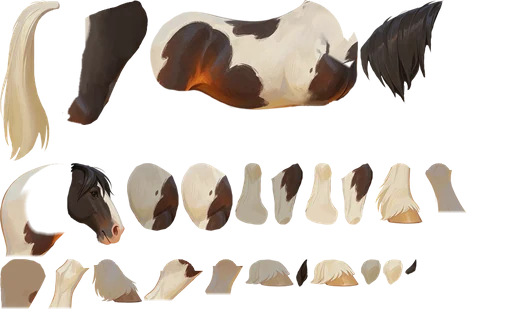
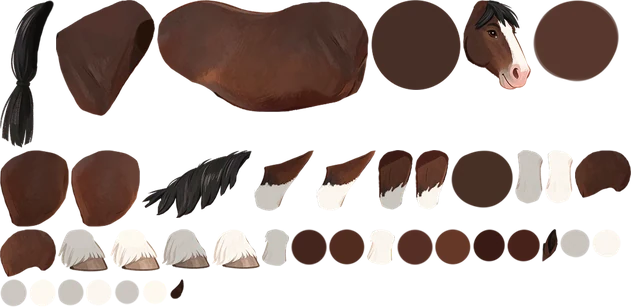
v257: шайр из PSD-нарезки вместо старой лошади + лёгкий галоп в повозке с седоками
- новый атлас horse.webp: 40 частей с шарнирами, кость у каждой части в HF
- лёгкий галоп (3 такта, корпус-качалка), когда в телеге Змей с героиней или все трое
- хвост при рыси отлетает назад (под новый риг)

diff --git a/index.html b/index.html
@@ -319,7 +319,7 @@ body.overview .hud, body.overview .stick-zone, body.overview .guide, body.overvi
 <script>
 // ===================== Общие настройки =====================
 const DPR = Math.min(window.devicePixelRatio || 1, 3);
-const GAME_VERSION = 256;   // совпадает с номером в sw.js (farm-vN); видно в окне «Заново»
+const GAME_VERSION = 257;   // совпадает с номером в sw.js (farm-vN); видно в окне «Заново»
 // Слои земли (трава, дорожки, поля, тени) — глубже любых персонажей и деревьев, даже с отрицательной y
 const GROUND = -5000;
 // Карта: y от −1000 до 2000. Верх (y < 0) — поле с пшеницей, низ (y > 1000) — пастбище Эйнара
@@ -5340,23 +5340,16 @@ function updateReap(dt) {
     g.lineStyle(2 + 6 * f, 0xFFF6D8, 0.7 * f).lineBetween(a.x, a.y, b.x, b.y);
   }
 }
-// ===================== Лошадь — рисованная (v245): части из PSD, риг костей, рысь / стоит / бьёт копытом =====================
-// Атлас assets/chars/horse.webp: части в 0.5. HF: [x, y, w, h в атласе, место на холсте 800×604 x, y]. Лошадь смотрит вправо.
-const HF = {"hindFar-hoof":[92,259,50,44,214,464],"hindFar-cannon":[425,163,42,50,192,390],"hindFar-gaskin":[205,259,38,36,192,346],"hindFar-thigh":[0,259,46,50,205,274],"tail":[0,0,60,161,62,191],"foreFar-shin":[235,163,34,62,471,410],"foreFar-knee":[361,259,20,26,490,398],"foreFar-hoof":[245,259,49,28,462,496],"foreFar-top1":[127,163,52,68,458,210],"foreFar-top2":[271,163,32,62,487,304],"body":[150,0,208,110,163,146],"neck":[62,0,86,125,485,60],"mane":[360,0,84,104,463,62],"earFar":[405,259,12,16,652,47],"head":[67,163,58,82,620,64],"earNear":[296,259,12,28,631,41],"hindNear-hoof":[375,163,48,61,71,445],"hindNear-cannon":[48,259,42,50,94,373],"hindNear-gaskin":[144,259,59,42,109,320],"hindNear-thigh":[0,163,65,94,129,169],"foreNear-shin":[305,163,34,62,439,427],"foreNear-knee":[383,259,20,26,458,415],"foreNear-hoof":[310,259,49,28,430,513],"foreNear-top1":[181,163,52,68,426,227],"foreNear-top2":[341,163,32,62,455,321]};
+// ===================== Лошадь — шайр (v257): нарезка пользователя из PSD «Новая_лошадка» + шарниры; рысь / лёгкий галоп / стоит / бьёт копытом =====================
+// Атлас assets/chars/horse.webp: части в 0.5. HF: [x, y, w, h в атласе, место на холсте 800×605 x, y, кость]. Лошадь смотрит вправо. Порядок ключей — снизу вверх.
+const HF = {"hindFar-jFetlock":[560,229,30,29,207,452,"hF3"],"hindFar-hoof":[58,229,50,43,193,466,"hF4"],"hindFar-jHock":[58,279,26,27,215,380,"hF2"],"hindFar-jThigh":[291,229,36,36,232,297,"hF1"],"hindFar-cannon":[515,150,28,54,209,390,"hF3"],"hindFar-jStifle":[329,229,36,36,269,252,"hF1"],"hindFar-gaskin":[254,150,60,61,212,304,"hF2"],"hindFar-thigh":[0,150,69,77,209,195,"hF1"],"tail":[0,0,54,148,69,186,"tail"],"jHip":[533,0,86,82,136,166,"root"],"jWithers":[371,0,90,90,391,148,"root"],"foreFar-jFetlock":[0,279,27,28,473,448,"fF3"],"foreFar-hoof":[162,229,48,40,459,472,"fF4"],"foreFar-jKnee":[114,279,26,26,483,395,"fF2"],"foreFar-shin":[262,229,27,37,477,409,"fF3"],"foreFar-jElbow":[473,229,32,33,486,301,"fF1"],"foreFar-top2":[378,150,35,60,486,311,"fF2"],"foreFar-top1":[575,150,56,48,472,248,"fF1"],"body":[157,0,212,112,155,152,"root"],"jPoll":[451,150,62,58,559,66,"neck"],"neck":[56,0,99,116,442,87,"neck"],"foreNear-jFetlock":[29,279,27,28,418,465,"fN3"],"foreNear-hoof":[212,229,48,40,403,488,"fN4"],"foreNear-jKnee":[142,279,26,26,427,412,"fN2"],"foreNear-shin":[367,229,28,36,421,426,"fN3"],"foreNear-jElbow":[507,229,33,33,430,317,"fN1"],"foreNear-top2":[415,150,34,60,431,328,"fN2"],"foreNear-top1":[0,229,56,48,416,264,"fN1"],"earFar":[170,279,14,20,653,47,"earF"],"head":[463,0,68,90,598,68,"head"],"earNear":[542,229,16,33,618,41,"earN"],"mane":[142,150,110,68,407,67,"mane"],"hindNear-jFetlock":[592,229,29,29,132,465,"hN3"],"hindNear-hoof":[110,229,50,42,118,479,"hN4"],"hindNear-jHock":[86,279,26,27,139,393,"hN2"],"hindNear-jThigh":[397,229,36,36,157,310,"hN1"],"hindNear-cannon":[545,150,28,54,133,403,"hN3"],"hindNear-jStifle":[435,229,36,36,193,265,"hN1"],"hindNear-gaskin":[316,150,60,61,137,317,"hN2"],"hindNear-thigh":[71,150,69,77,133,208,"hN1"]};
 // кости: [родитель, ось x, y на холсте]; углы поз — в градусах, по часовой
-const HB = { root: [null, 370, 300], neck: ['root', 505, 275], mane: ['neck', 540, 95], head: ['neck', 648, 125], earN: ['head', 646, 92], earF: ['head', 662, 77], tail: ['root', 168, 200],
-  fN1: ['root', 478, 250], fN2: ['fN1', 486, 335], fN3: ['fN2', 478, 440], fN4: ['fN3', 472, 520],
-  fF1: ['root', 510, 233], fF2: ['fF1', 518, 318], fF3: ['fF2', 510, 423], fF4: ['fF3', 504, 503],
-  hN1: ['root', 183, 209], hN2: ['hN1', 178, 354], hN3: ['hN2', 138, 401], hN4: ['hN3', 121, 469],
-  hF1: ['root', 232, 304], hF2: ['hF1', 234, 370], hF3: ['hF2', 219, 414], hF4: ['hF3', 244, 486] };
+const HB = {root: [null, 375.2, 257.2], neck: ["root", 480.2, 238.3], mane: ["neck", 519.2, 141.6], head: ["neck", 620.6, 123.9], earN: ["head", 634.8, 101.5], earF: ["head", 667.8, 82.6], tail: ["root", 162.8, 202.9], hN1: ["root", 202.9, 236.0], hN2: ["hN1", 228.9, 300.9], hN3: ["hN2", 164.0, 418.9], hN4: ["hN3", 160.5, 493.2], hF1: ["root", 278.5, 223.0], hF2: ["hF1", 304.4, 287.9], hF3: ["hF2", 239.5, 405.9], hF4: ["hF3", 236.0, 480.2], fN1: ["root", 474.3, 280.8], fN2: ["fN1", 462.5, 349.3], fN3: ["fN2", 453.1, 437.8], fN4: ["fN3", 444.8, 492.0], fF1: ["root", 529.8, 264.3], fF2: ["fF1", 518.0, 332.7], fF3: ["fF2", 508.6, 421.2], fF4: ["fF3", 500.3, 475.5] };
 const HK = 0.18, HS = 0.5;   // мир на пиксель холста (v247: поменьше — холка ниже Змея); масштаб атласа
-const H_ONE = { body: 'root', neck: 'neck', mane: 'mane', head: 'head', earNear: 'earN', earFar: 'earF', tail: 'tail' };
-const H_SEG = { top1: 1, top2: 2, knee: 3, shin: 3, hoof: 4, thigh: 1, gaskin: 2, cannon: 3 };
-const H_LEG = { foreNear: 'fN', foreFar: 'fF', hindNear: 'hN', hindFar: 'hF' };
-const hBone = n => H_ONE[n] || H_LEG[n.split('-')[0]] + H_SEG[n.split('-')[1]];
+const hBone = n => HF[n][6];
 const hEase = t => 0.5 - 0.5 * Math.cos(Math.PI * Math.max(0, Math.min(1, t)));
 const hPulse = (t, t0, d) => t < t0 || t > t0 + d ? 0 : Math.sin(Math.PI * (t - t0) / d);
-function makeHorse() {
+function makeHorse(gallop) {   // gallop — в повозке с седоками лёгкий галоп вместо рыси
   const tex = scene.textures.get('horseAtlas'), c = scene.add.container(0, 0);
   c.ims = [];
   for (const n of Object.keys(HF)) {   // порядок ключей — снизу вверх
@@ -5365,6 +5358,7 @@ function makeHorse() {
     im.bone = hBone(n); im.rx = f[4]; im.ry = f[5]; c.add(im); c.ims.push(im);
   }
   c.hs = { t: Math.random() * 10, ph: 0, mv: 0, ev: {}, nx: { ear: 2 + Math.random() * 3, earF: 4 + Math.random() * 4, tail: 3 + Math.random() * 4, paw: 3 + Math.random() * 4 } };   // состояние (у контейнера свои поля — next и т.п.)
+  c.hs.gallop = !!gallop;
   c.tick = (dt, speed) => horseTick(c, dt, speed);
   horsePose(c, {});
   return c;
@@ -5389,13 +5383,22 @@ function hLegH(ph, s, p) {   // задняя: перенос — сгиб ска
   let hp, f; if (ph < 0.5) { hp = -12 + 26 * (ph / 0.5); f = 0; } else { const q = (ph - 0.5) / 0.5; hp = 14 - 26 * hEase(q); f = Math.sin(Math.PI * q); }
   p[s + '1'] = hp - 6 * f; p[s + '2'] = 14 * f; p[s + '3'] = -42 * f; p[s + '4'] = 34 * f;
 }
+function hLegFC(ph, s, p) {   // лёгкий галоп: опора 0.42 цикла, перенос со сгибом
+  const st = 0.42, A = 18; let sh, f; if (ph < st) { sh = -A + 2 * A * ph / st; f = 0; } else { const q = (ph - st) / (1 - st); sh = A - 2 * A * hEase(q); f = Math.sin(Math.PI * q); }
+  p[s + '1'] = sh - 4 * f; p[s + '2'] = -10 * f; p[s + '3'] = 88 * f; p[s + '4'] = 32 * f;
+}
+function hLegHC(ph, s, p) {
+  const st = 0.42, A = 16; let hp, f; if (ph < st) { hp = -A + 2 * A * ph / st; f = 0; } else { const q = (ph - st) / (1 - st); hp = A - 2 * A * hEase(q); f = Math.sin(Math.PI * q); }
+  p[s + '1'] = hp - 8 * f; p[s + '2'] = 18 * f; p[s + '3'] = -50 * f; p[s + '4'] = 38 * f;
+}
+const H_CANTER = [['hF', 0, hLegHC], ['hN', 0.16, hLegHC], ['fF', 0.24, hLegFC], ['fN', 0.40, hLegFC]];   // 3 такта: дальняя задняя, диагональ, ведущая передняя; потом «полёт»
 const H_PAW_UP = { fN1: -20, fN2: -6, fN3: 84, fN4: 36 }, H_PAW_SCR = { fN1: 2, fN3: 26, fN4: -16 };
 const H_PAW = [[0, {}], [0.35, H_PAW_UP], [0.7, H_PAW_SCR], [0.95, H_PAW_UP], [1.3, H_PAW_SCR], [1.55, H_PAW_UP], [1.9, H_PAW_SCR], [2.3, {}]];
 function horseTick(h, dt, speed) {   // speed — скорость телеги (мир/с): от неё темп рыси; стоит — дышит, уши, хвост, иногда бьёт копытом
   if (REDUCED) return;
   const H = h.hs, sec = Math.min(dt, 120) / 1000, moving = speed > 4; H.t += sec;
   H.mv += ((moving ? 1 : 0) - H.mv) * Math.min(1, sec * 6);
-  if (moving) H.ph = (H.ph + sec * Math.min(2.6, speed / 95)) % 1;
+  if (moving) H.ph = (H.ph + sec * (H.gallop ? Math.min(2.2, speed / 200) : Math.min(2.6, speed / 95))) % 1;
   const t = H.t, ev = H.ev, nx = H.nx;
   const p = { dy: 0.8 * Math.sin(2 * Math.PI * t / 2), head: 1.5 * Math.sin(2 * Math.PI * t / 4), tail: 2.5 * Math.sin(Math.PI * t) };
   for (const k in nx) nx[k] -= sec;
@@ -5417,11 +5420,17 @@ function horseTick(h, dt, speed) {   // speed — скорость телеги 
       p.neck = 10 * kk; p.head += 8 * kk; p.earN = (p.earN || 0) - 14 * kk; p.earF = (p.earF || 0) - 14 * kk;
     }
   }
-  if (H.mv > 0.01) {   // рысь: диагональные пары; корпус подпрыгивает, грива чуть запаздывает
-    const q = {}, ph = H.ph, w = H.mv;
-    hLegF(ph, 'fN', q); hLegH(ph, 'hF', q); hLegF((ph + 0.5) % 1, 'fF', q); hLegH((ph + 0.5) % 1, 'hN', q);
-    Object.assign(q, { dy: -5 * Math.abs(Math.sin(2 * Math.PI * ph)), root: 0.8 * Math.sin(4 * Math.PI * ph), neck: -4 + 2.5 * Math.sin(4 * Math.PI * ph + 1),
-      head: -2 * Math.sin(4 * Math.PI * ph + 1.4), tail: -14 + 4 * Math.sin(4 * Math.PI * ph), mane: 2.5 * Math.sin(4 * Math.PI * ph - 0.9), earN: -6, earF: -6 });
+  if (H.mv > 0.01) {
+    const q = {}, ph = H.ph, w = H.mv, P2 = 2 * Math.PI;
+    if (H.gallop) {   // лёгкий галоп: корпус качается «лошадкой-качалкой», шея кивает, хвост отлетает назад
+      for (const [s, o, fn] of H_CANTER) fn((ph - o + 1) % 1, s, q);
+      Object.assign(q, { root: -2.2 * Math.cos(P2 * (ph - 0.05)), dy: -3 - 3.5 * Math.cos(P2 * (ph - 0.85)), neck: 3 + 5 * Math.cos(P2 * (ph - 0.5)),
+        head: -3 * Math.cos(P2 * (ph - 0.6)), mane: 4 * Math.sin(P2 * ph - 2.2), tail: 16 + 6 * Math.sin(P2 * ph - 1), earN: -8, earF: -8 });
+    } else {   // рысь: диагональные пары; корпус подпрыгивает, грива чуть запаздывает
+      hLegF(ph, 'fN', q); hLegH(ph, 'hF', q); hLegF((ph + 0.5) % 1, 'fF', q); hLegH((ph + 0.5) % 1, 'hN', q);
+      Object.assign(q, { dy: -5 * Math.abs(Math.sin(P2 * ph)), root: 0.8 * Math.sin(2 * P2 * ph), neck: -4 + 2.5 * Math.sin(2 * P2 * ph + 1),
+        head: -2 * Math.sin(2 * P2 * ph + 1.4), tail: 10 + 4 * Math.sin(2 * P2 * ph), mane: 2.5 * Math.sin(2 * P2 * ph - 0.9), earN: -6, earF: -6 });   // v257: у шайра хвост назад — плюс
+    }
     for (const k of new Set([...Object.keys(p), ...Object.keys(q)])) p[k] = (p[k] || 0) * (1 - w) + (q[k] || 0) * w;
   }
   horsePose(h, p);
@@ -5445,7 +5454,7 @@ function makeCart(riders) {   // [0,0] — земля под серединой 
   const c = scene.add.container(0, 0);
   const sh = scene.add.ellipse(66, 0, 272, 24, 0x1d2a12, 0.22);
   const shaftFar = scene.add.graphics(); shaftFar.lineStyle(3, 0x4A2E18, 1).lineBetween(36, -36, 137, -54);   // дальняя оглобля — за лошадью
-  const horse = makeHorse(); horse.setPosition(47, -102).setScale(HK);   // v245: рисованная лошадь; v247: меньше, круп на том же расстоянии от телеги
+  const horse = makeHorse(riders === 'both' || riders === 'three'); horse.setPosition(47, -102).setScale(HK);   // v257: с седоками — лёгкий галоп   // v245: рисованная лошадь; v247: меньше, круп на том же расстоянии от телеги
   const shaftNear = scene.add.graphics(); shaftNear.lineStyle(3.5, 0x5A3A1E, 1).lineBetween(36, -30, 132, -50);   // ближняя оглобля
   const parts = [sh, shaftFar, horse, shaftNear];
   c.riders = [];

diff --git a/sw.js b/sw.js
@@ -4,7 +4,7 @@
 //  • картинки и движок — сразу из сохранённой копии (без похода в сеть при каждом запуске).
 //    Когда выходит новая версия (меняется CACHE), новый service worker при установке
 //    заново скачивает все файлы с меткой версии — гарантированно свежие.
-const CACHE = 'farm-v256';
+const CACHE = 'farm-v257';
 const CORE = [
   './',
   './index.html',
